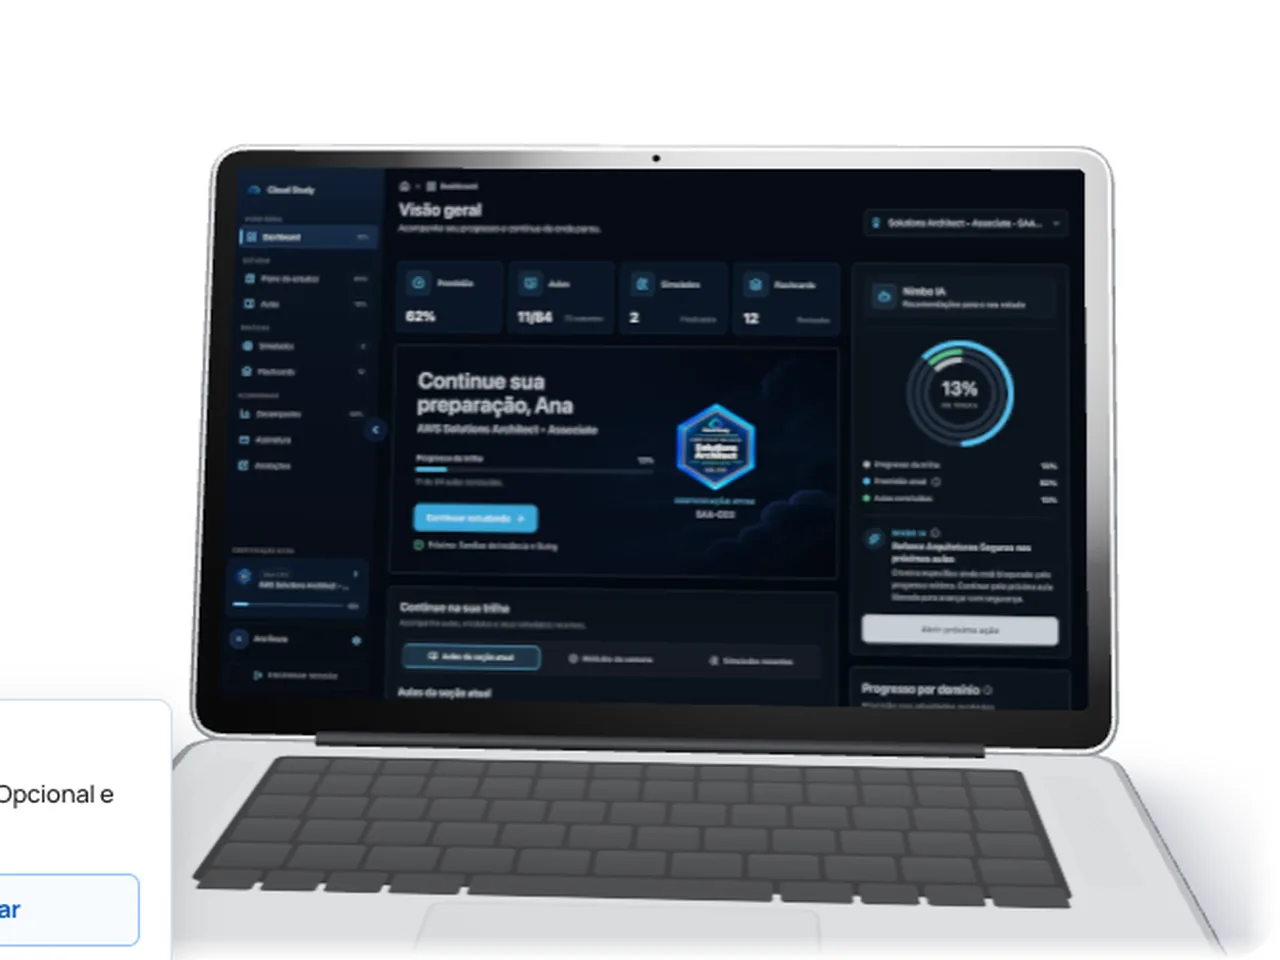
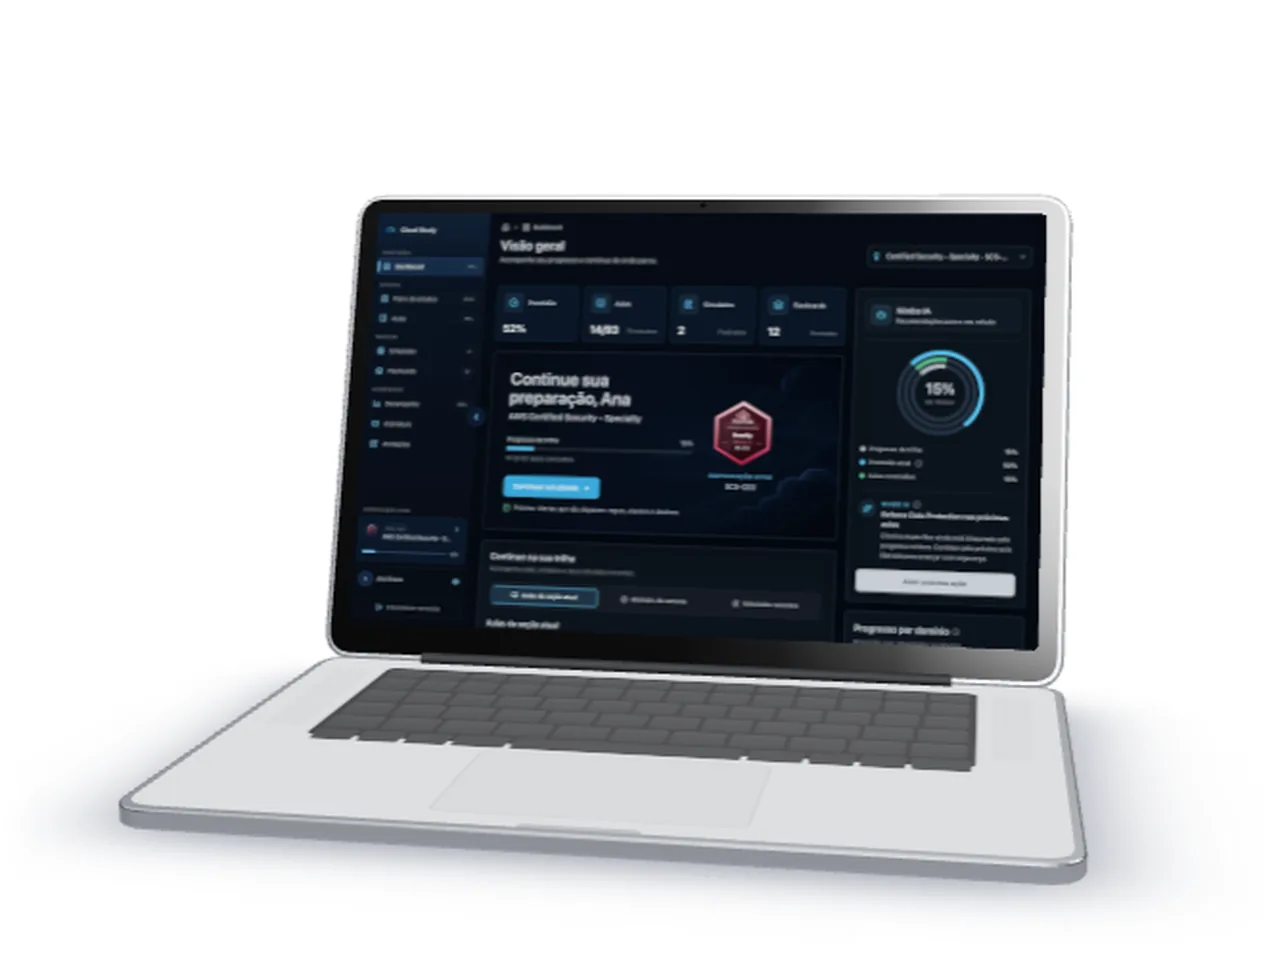
feat(launch): video do painel mostra aula, erro corrigido e simulado
O roteiro so passeava pelo painel. Agora conta o uso: painel da Security
(selo rosa), uma aula em que a aluna erra uma resposta e o Nimbo explica, e
um simulado cronometrado.

- Nove telas reais do sistema local, com conta de demonstracao; a correcao e
  a explicacao do Nimbo foram geradas pelo proprio sistema.
- Linha do tempo generica de telas, cursor e cliques, toda em funcao do
  progresso (rolar para tras desfaz cada passo).
- Telas enviadas a placa de video na criacao: a primeira troca engasgava.
- Saem as cenas de troca de certificacao e de recomendacao, para nao alongar.
- Legendas novas sobre aula, erro e simulado.

Validado: next build, tsc, tests/landing-tracking (17/17), rolagem
automatizada em 390 e 1280 px sem erros e a 60 fps. Nao testado em
iPhone/Android reais.

diff --git a/components/launch/dashboard-scroll-scene.ts b/components/launch/dashboard-scroll-scene.ts
@@ -147,41 +147,48 @@ function cursorTexture() {
 }
 
 const SCREEN_FRAGMENT = `
-uniform sampler2D tA; uniform sampler2D tB; uniform sampler2D tC;
-uniform float uOpen; uniform float uR; uniform float uBright; uniform vec2 uCenter;
+uniform sampler2D tA; uniform sampler2D tB; uniform float uMix; uniform float uBright;
 varying vec2 vUv;
 void main() {
   vec2 q = (vUv - .5) * vec2(1.6, 1.);
   vec2 dd = abs(q) - (vec2(.8, .5) - .014);
   if (length(max(dd, 0.)) - .014 > 0.) discard; // cantos arredondados da tela
-  vec4 col = mix(texture2D(tA, vUv), texture2D(tB, vUv), uOpen);
-  vec2 rel = (vUv - uCenter) * vec2(1.6, 1.);
-  float wobble = 1. + .05 * sin(atan(rel.y, rel.x) * 5. + uR * 4.);
-  float inside = 1. - smoothstep(uR * wobble - .05, uR * wobble, length(rel));
-  col = mix(col, texture2D(tC, vUv), inside * step(.0005, uR));
+  vec4 col = mix(texture2D(tA, vUv), texture2D(tB, vUv), uMix);
   gl_FragColor = vec4(col.rgb * uBright, 1.);
   #include <colorspace_fragment>
 }`;
 const SCREEN_VERTEX = "varying vec2 vUv; void main(){ vUv = uv; gl_Position = projectionMatrix * modelViewMatrix * vec4(position, 1.); }";
 
-// Roteiro da camera: "wide" e uma posicao solta no estudio; "uv" olha de frente para um ponto
-// da tela (u, v de 0 a 1) a uma distancia d.
+// Roteiro. Tudo e funcao do progresso p (0 a 1), entao rolar para tras desfaz cada passo.
+// Camera: "wide" e uma posicao solta no estudio; "uv" olha de frente para um ponto da tela
+// (u, v de 0 a 1) a uma distancia d.
 type Key = { p: number; wide?: [number[], number[]]; uv?: [number, number, number] };
 const KEYS: Key[] = [
   { p: 0, wide: [[0, 3.7, 6.2], [0, 0.3, 0.15]] },
-  { p: 0.2, wide: [[0, 1.95, 6.9], [0, 0.95, -0.3]] },
-  { p: 0.34, uv: [0.5, 0.5, 4.6] },
-  { p: 0.42, uv: [0.46, 0.7, 2.75] },
-  { p: 0.5, uv: [0.46, 0.68, 2.65] },
-  { p: 0.56, uv: [0.855, 0.56, 2.5] },
-  { p: 0.62, uv: [0.855, 0.54, 2.42] },
-  { p: 0.68, uv: [0.85, 0.7, 2.3] },
-  { p: 0.84, uv: [0.85, 0.68, 2.24] },
-  { p: 0.92, uv: [0.5, 0.5, 4.6] },
+  { p: 0.15, wide: [[0, 1.95, 6.9], [0, 0.95, -0.3]] },
+  { p: 0.25, uv: [0.5, 0.5, 4.6] },
+  { p: 0.3, uv: [0.44, 0.66, 2.9] }, // painel: numeros e proxima aula
+  { p: 0.37, uv: [0.42, 0.6, 2.8] },
+  { p: 0.41, uv: [0.5, 0.52, 3.5] }, // aula: a pergunta
+  { p: 0.55, uv: [0.5, 0.46, 3.4] },
+  { p: 0.6, uv: [0.5, 0.31, 3.35] }, // aula: o Nimbo explica o erro
+  { p: 0.67, uv: [0.5, 0.31, 3.25] },
+  { p: 0.71, uv: [0.55, 0.57, 4.15] }, // simulado
+  { p: 0.86, uv: [0.56, 0.57, 4.0] },
+  { p: 0.93, uv: [0.5, 0.5, 4.6] },
   { p: 1, wide: [[0, 1.95, 6.9], [0, 0.95, -0.3]] },
 ];
-const SWITCHER: [number, number] = [0.87, 0.918];
-const OPTION: [number, number] = [0.8, 0.434];
+// Telas (s0..s8 em public/dashboard-scroll) e o instante em que cada uma entra.
+// 0 painel, 1-4 aula (0 a 3 respostas marcadas), 5 aula corrigida, 6-8 simulado.
+const SCREENS: [number, number][] = [[0, 0], [0.374, 1], [0.434, 2], [0.474, 3], [0.514, 4], [0.564, 5], [0.685, 6], [0.754, 7], [0.804, 8]];
+const FADE = 0.012;
+// Caminho do cursor: [p, u, v]. Cada parada coincide com um clique.
+const CURSOR: [number, number, number][] = [
+  [0.31, 0.7, 0.2], [0.365, 0.296, 0.334], [0.4, 0.5, 0.4], [0.43, 0.651, 0.515], [0.47, 0.349, 0.374], [0.51, 0.349, 0.23],
+  [0.56, 0.81, 0.049], [0.69, 0.86, 0.12], [0.75, 0.692, 0.337], [0.8, 0.518, 0.263], [0.86, 0.6, 0.18],
+];
+const CLICKS = [0.37, 0.43, 0.47, 0.51, 0.56, 0.75, 0.8];
+const SCREEN_COUNT = 9;
 
 export async function createFilmScene(canvas: HTMLCanvasElement, size: "lg" | "sm"): Promise<FilmScene> {
   const renderer = new THREE.WebGLRenderer({ canvas, antialias: true, alpha: true, powerPreference: "high-performance" });
@@ -206,7 +213,9 @@ export async function createFilmScene(canvas: HTMLCanvasElement, size: "lg" | "s
       t.generateMipmaps = true;
       return t;
     });
-  const [tA, tB, tC] = await Promise.all([loadScreen("saa"), loadScreen("switch_open"), loadScreen("clf")]);
+  const textures = await Promise.all(Array.from({ length: SCREEN_COUNT }, (_, i) => loadScreen(`s${i}`)));
+  // Envia todas as telas para a placa de video ja: sem isso, a primeira troca de tela engasga.
+  textures.forEach((t) => renderer.initTexture(t));
 
   const aluminium = new THREE.MeshStandardMaterial({ color: "#a7abb2", roughness: 0.34, metalness: 1 });
   const rig = new THREE.Group();
@@ -243,7 +252,7 @@ export async function createFilmScene(canvas: HTMLCanvasElement, size: "lg" | "s
   const bezel = new THREE.Mesh(new THREE.ShapeGeometry(roundedRect(W - 0.03, LH - 0.03, 0.105, -(W - 0.03) / 2, 0.015), 10), new THREE.MeshStandardMaterial({ color: "#050506", roughness: 0.16, metalness: 0.3 }));
   bezel.position.z = 0.0012;
   lid.add(bezel);
-  const uniforms = { tA: { value: tA }, tB: { value: tB }, tC: { value: tC }, uOpen: { value: 0 }, uR: { value: 0 }, uBright: { value: 1 }, uCenter: { value: new THREE.Vector2(OPTION[0], OPTION[1]) } };
+  const uniforms = { tA: { value: textures[0] }, tB: { value: textures[0] }, uMix: { value: 0 }, uBright: { value: 1 } };
   const screen = new THREE.Mesh(new THREE.PlaneGeometry(SW, SH), new THREE.ShaderMaterial({ uniforms, vertexShader: SCREEN_VERTEX, fragmentShader: SCREEN_FRAGMENT, toneMapped: false }));
   screen.position.set(0, LH - 0.075 - SH / 2, 0.003);
   lid.add(screen);
@@ -279,22 +288,28 @@ export async function createFilmScene(canvas: HTMLCanvasElement, size: "lg" | "s
 
   const render = (progress: number) => {
     const p = clamp(progress);
-    const opened = ss(0.02, 0.2, p);
+    const opened = ss(0.01, 0.15, p);
     lid.rotation.x = lerp(CLOSED, OPEN, opened);
-    rig.rotation.y = lerp(-0.55, -0.2, ss(0, 0.2, p)) * (1 - ss(0.2, 0.33, p)) + 0.3 * ss(0.92, 1, p);
+    rig.rotation.y = lerp(-0.55, -0.2, ss(0, 0.15, p)) * (1 - ss(0.15, 0.24, p)) + 0.3 * ss(0.93, 1, p);
     uniforms.uBright.value = lerp(0.04, 1, ss(0.35, 0.85, opened));
-    uniforms.uOpen.value = ss(0.7, 0.712, p) * (1 - ss(0.775, 0.79, p));
-    const reveal = clamp((p - 0.765) / 0.075);
-    uniforms.uR.value = 2.4 * reveal * reveal;
-    // cursor: entra pela direita, clica no seletor, desce ate a opcao e clica
-    const toSwitcher = ss(0.63, 0.695, p);
-    const toOption = ss(0.715, 0.755, p);
-    const cu = lerp(lerp(0.99, SWITCHER[0], toSwitcher), OPTION[0], toOption);
-    const cv = lerp(lerp(0.6, SWITCHER[1], toSwitcher), OPTION[1], toOption);
+    // tela atual e a proxima, com um fade curto na troca
+    let si = 0;
+    while (si < SCREENS.length - 1 && p >= SCREENS[si + 1][0]) si += 1;
+    const entering = si > 0 ? clamp((p - SCREENS[si][0]) / FADE) : 1;
+    uniforms.tA.value = textures[SCREENS[Math.max(si - 1, 0)][1]];
+    uniforms.tB.value = textures[SCREENS[si][1]];
+    uniforms.uMix.value = entering;
+    // cursor
+    let ci = 0;
+    while (ci < CURSOR.length - 2 && p > CURSOR[ci + 1][0]) ci += 1;
+    const ct = ss(CURSOR[ci][0], CURSOR[ci + 1][0], p);
+    const cu = lerp(CURSOR[ci][1], CURSOR[ci + 1][1], ct);
+    const cv = lerp(CURSOR[ci][2], CURSOR[ci + 1][2], ct);
     cursor.position.set((cu - 0.5) * SW, (cv - 0.5) * SH, 0.002);
-    const press = Math.max(1 - Math.abs(p - 0.7) / 0.008, 1 - Math.abs(p - 0.762) / 0.008, 0);
-    cursor.scale.setScalar(1 - 0.16 * clamp(press));
-    cursorMaterial.opacity = ss(0.63, 0.65, p) * (1 - ss(0.83, 0.85, p));
+    let press = 0;
+    for (const c of CLICKS) press = Math.max(press, 1 - Math.abs(p - c) / 0.007);
+    cursor.scale.setScalar(1 - 0.18 * clamp(press));
+    cursorMaterial.opacity = ss(0.31, 0.33, p) * (1 - ss(0.84, 0.86, p)) * (1 - ss(0.585, 0.6, p) * (1 - ss(0.69, 0.705, p)));
     rig.updateMatrixWorld(true);
 
     let i = 0;
@@ -331,7 +346,7 @@ export async function createFilmScene(canvas: HTMLCanvasElement, size: "lg" | "s
         x.dispose();
       });
     });
-    [tA, tB, tC].forEach((t) => t.dispose());
+    textures.forEach((t) => t.dispose());
     envTarget.dispose();
     pmrem.dispose();
     renderer.dispose();

diff --git a/components/launch/dashboard-scroll-film.tsx b/components/launch/dashboard-scroll-film.tsx
@@ -13,10 +13,11 @@ const EDGE_FADE = "linear-gradient(to right, transparent, black 2.5%, black 97.5
 
 // Cada legenda acompanha uma parada da camera (ver KEYS em dashboard-scroll-scene.ts).
 const captions = [
-  { range: [-1, -0.5, 0.24, 0.3], title: "Veja por dentro.", body: "O painel real da CloudStudy, do jeito que o aluno usa." },
-  { range: [0.36, 0.41, 0.49, 0.53], title: "Tudo o que importa numa tela só.", body: "Prontidão, aulas, simulados e flashcards, sempre atualizados." },
-  { range: [0.54, 0.57, 0.62, 0.65], title: "O Nimbo aponta o próximo passo.", body: "Ele olha onde você erra e recomenda o que estudar agora." },
-  { range: [0.67, 0.7, 0.85, 0.9], title: "Troque de prova em um clique.", body: "As 11 certificações ficam no mesmo painel, cada uma com seu progresso." },
+  { range: [-1, -0.5, 0.19, 0.24], title: "Veja por dentro.", body: "O painel real da CloudStudy, do jeito que o aluno usa." },
+  { range: [0.26, 0.29, 0.355, 0.385], title: "Tudo o que importa numa tela só.", body: "Prontidão, aulas, simulados e flashcards, sempre atualizados." },
+  { range: [0.395, 0.42, 0.535, 0.56], title: "Aula que faz você praticar.", body: "Nada de só assistir: você responde a cada passo." },
+  { range: [0.575, 0.6, 0.655, 0.68], title: "Errou? O Nimbo explica.", body: "Na hora, com o porquê de cada resposta." },
+  { range: [0.695, 0.72, 0.85, 0.89], title: "Simulado com o relógio correndo.", body: "Treine no ritmo da prova e analise seus erros no final." },
 ] as const;
 
 function Caption({ progress, range, title, body }: { progress: MotionValue<number>; range: readonly number[]; title: string; body: string }) {
@@ -141,7 +142,7 @@ export function DashboardScrollFilm() {
   }
 
   return (
-    <section ref={sectionRef} aria-labelledby="dashboard-film-title" className="relative h-[460vh] bg-white sm:h-[520vh]">
+    <section ref={sectionRef} aria-labelledby="dashboard-film-title" className="relative h-[560vh] bg-white sm:h-[640vh]">
       <h2 id="dashboard-film-title" className="sr-only">Veja por dentro o painel da CloudStudy</h2>
       <div className="sticky top-0 flex h-[100svh] flex-col items-center justify-center overflow-hidden px-4 pb-6 pt-24 sm:pt-28">
         <div className="relative h-[8.5rem] w-full sm:h-[11.75rem]" aria-hidden="true">
@@ -152,7 +153,7 @@ export function DashboardScrollFilm() {
         <canvas
           ref={canvasRef}
           role="img"
-          aria-label="Animação de um notebook abrindo com o painel da CloudStudy: prontidão, aulas, simulados, flashcards, recomendação do Nimbo e troca entre certificações, com dados de exemplo"
+          aria-label="Animação de um notebook abrindo com o painel da CloudStudy: prontidão, uma aula com exercício corrigido pelo Nimbo e um simulado cronometrado, com dados de exemplo"
           // Bordas esfumacadas: quando a camera entra na tela, o painel encosta no limite do canvas.
           style={{ maskImage: EDGE_FADE, WebkitMaskImage: EDGE_FADE, maskComposite: "intersect", WebkitMaskComposite: "source-in", opacity: ready ? 1 : 0, transition: "opacity .5s ease" }}
           className="mt-2 aspect-[4/3] rounded-[1.75rem] w-[min(100%,calc((100svh-15rem)*4/3))] sm:w-[min(100%,72rem,calc((100svh-18.75rem)*4/3))]"
